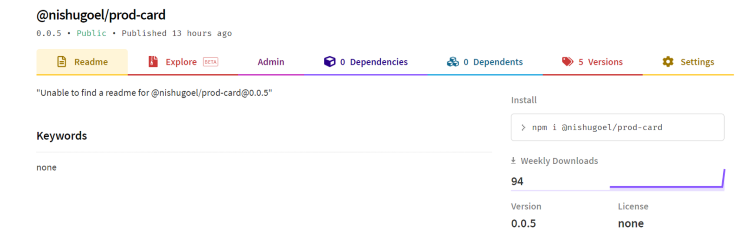
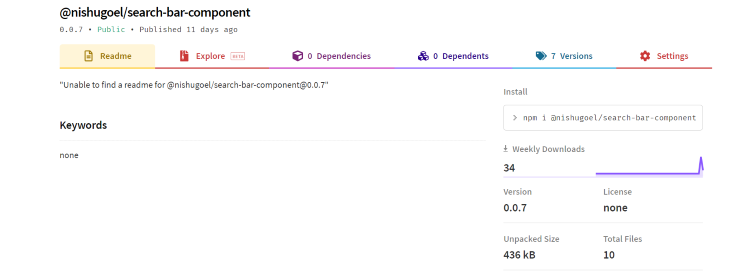
refine repos & snips

diff --git a/src/app/buildwith-elements/buildwith-elements.component.html b/src/app/buildwith-elements/buildwith-elements.component.html
@@ -7,7 +7,7 @@
         </h3>
         <div style="text-align: center; "><img src="../../assets/images/ngElementPackage.png"
                 alt="elementsDependency.png"></div> <br><br>
-        <div class="content-tag"><code class="icon-code-style">npm install --save @webcomponents/webcomponentsjs</code>
+        <div class="content-tag"><code class="icon-code-style">npm install --save @webcomponents/custom-elements</code>
         </div>
         <pre style="background: darkgray; padding: 6px;"><code style=" color: black;">import ‘@webcomponents/custom-elements/src/native-shim’;
 import ‘@webcomponents/custom-elements/custom-elements.min’;</code></pre>
@@ -24,7 +24,7 @@ export class ComponentName {{'{'}}
     title = 'custom-elements-demo';
 {{'}'}}</code></pre>
         <p>The selector name will be the one used while creating the web-component. Also, you would want to give it a
-            generic name as this web component is going to be a re-usable one which you’d definitely want to use in your
+            generic name as this web component is going to be a re-usable one which you'd definitely want to use in your
             other projects as well.
             The next step then is to create the custom Element inside the module of your app. To do this, we first need
             to declare it inside the entryComponents array inside NgModule.</p>
@@ -59,5 +59,7 @@ export class FeatureModule   {{'{'}}
             Angular component recognizes this custom Element, we add CUSTOM_ELEMENTS_SCHEMA in the schemas array in
             NgModule inside AppModule.</p>
         <p> You custom Element is now ready to be used and is accessible inside any of your Angular projects.</p>
+        <div style="text-align: center; "><img src="../../assets/images/ngWebComp.PNG"
+            alt="elementsDependency.png"></div>
     </div>
 </div>

diff --git a/src/app/use-in-framework/use-in-framework.component.html b/src/app/use-in-framework/use-in-framework.component.html
@@ -9,12 +9,12 @@
 
         <pre style="background: darkgray; padding: 6px;"><code style=" color: black;">//Inside index.html
     
-    &lt;script src="https://unpkg.com/@nishugoel/prod-card@0.0.5/main.js"&gt;&lt;/script&gt;
+    &lt;script src=https://unpkg.com/@nishugoel/search-bar-component@0.0.7/main.js"&gt;&lt;/script&gt;
         
 //Use the custom element in the App.js file  
         
-    &lt;prod-card username='Enter your name' password='Enter new password' 
-      btnname='Sign in'&gt;&lt;/prod-card&gt;
+    &lt;ng-search-bar textfield='Well, let us enter something from this react app 
+        now!'&gt;&lt;/ng-search-bar&gt;
 </code></pre>
         <h3>Install webcomponents.js
         </h3>
@@ -22,7 +22,7 @@
             style="background: darkgray; padding: 6px;"><code style=" color: black;">npm install --save @webcomponents/webcomponentsjs</code></pre>
         <p>Put the required polyfills for custom-elements-es5-adapter.js and webcomponents-bundle.js</p>
         <p>And finally use the custom element in your app.js file with your own property values to the component.</p>
-        <div style="text-align: center; "><img src="../../assets/images/usageinReact.png" alt="usageinReact.png">
+        <div style="text-align: center; "><img src="../../assets/images/reactUse.png" alt="usageinReact.png">
         </div>
         <h3 align="center">And there we go!
         </h3>

diff --git a/src/app/source-code/source-code.component.html b/src/app/source-code/source-code.component.html
@@ -1,0 +1,13 @@
+<div class="content-overview">
+    <div class="inner-style">
+        <h2 class="content-heading"><span class="style-scope ">10</span>. <span
+                class="style-scope google-codelab-step">Source Code</span></h2>
+                <h3>Repositories</h3>
+                <p>- Web component using Angular Elements</p>
+                <a href="https://github.com/NishuGoel/frameworkAgnostic-searchBar" target="_blank">https://github.com/NishuGoel/frameworkAgnostic-searchBar</a>
+
+                <p>- Using the custom element in React</p>
+                <a href="https://github.com/NishuGoel/useAngularElementinReact" target="_blank">https://github.com/NishuGoel/useAngularElementinReact</a>
+
+                <p>- Using the custom element in a vanilla JS project</p>
+                <a href="https://github.com/NishuGoel/useWebCompInVanillaJS" target="_blank">https://github.com/NishuGoel/useWebCompInVanillaJS</a>

diff --git a/src/app/source-code/source-code.component.scss b/src/app/source-code/source-code.component.scss
@@ -1,0 +1,37 @@
+.content-overview {
+    background: #fff;
+    border-radius: 4px;
+    box-shadow: 0 1px 2px 0 rgba(60, 64, 67, 0.3), 0 2px 6px 2px rgba(60, 64, 67, 0.15);
+    font-size: 14px;
+    font-family: "Roboto", sans-serif;
+    margin: 30px auto 32px;
+    max-width: 800px;
+  }
+  .inner-style {
+    padding: 24px;
+  }
+  .content-heading {
+    font-family: Google Sans, Arial, sans-serif;
+    font-size: 28px;
+    font-weight: 400;
+    line-height: 1em;
+    margin: 0 0 30px;
+  }
+  .icon-code-style {
+    background: darkgray;
+    padding: 6px;
+
+  }
+  .content-tag {
+    color: black;
+  }
+  .stuck-code-block {
+    background: #e6f4ea;
+    border-color: #137333;
+    color: #212124;
+    border-left: 4px solid;
+    border-radius: 4px;
+    margin: 2em 0;
+    padding: 0.5em 1em;
+  }
+  

diff --git a/src/app/app.component.html b/src/app/app.component.html
@@ -10,7 +10,7 @@
                         class="style-scope iron-icon"></path>
                 </g>
             </svg>
-            <h3 class="head-header"><b>Build a web component with Angular element</b></h3>
+            <h3 class="head-header"><b>Build a web component with Angular elements</b></h3>
         </header>
         <router-outlet></router-outlet>
     </div>
@@ -39,6 +39,7 @@
                 </div>
                 <div class="list-items" tabindex="0" routerLink="/publish">Publish to npm</div>
                 <div class="list-items" tabindex="0" routerLink="/usewebcomponent">Use in other frameworks</div>
+                <div class="list-items" tabindex="0" routerLink="/sourcecode">Source Code</div>
             </div>
 
         </ng-sidebar-container>

diff --git a/src/app/app.module.ts b/src/app/app.module.ts
@@ -14,6 +14,7 @@ import { AngularElementsComponent } from './angular-elements/angular-elements.co
 import { BuildwithElementsComponent } from './buildwith-elements/buildwith-elements.component';
 import { PublishComponent } from './publish/publish.component';
 import { UseInFrameworkComponent } from './use-in-framework/use-in-framework.component';
+import { SourceCodeComponent } from './source-code/source-code.component';
 
 @NgModule({
   declarations: [
@@ -27,7 +28,8 @@ import { UseInFrameworkComponent } from './use-in-framework/use-in-framework.com
     AngularElementsComponent,
     BuildwithElementsComponent,
     PublishComponent,
-    UseInFrameworkComponent
+    UseInFrameworkComponent,
+    SourceCodeComponent
   ],
   imports: [
     BrowserModule,

diff --git a/src/app/buildcustom-element/buildcustom-element.component.html b/src/app/buildcustom-element/buildcustom-element.component.html
@@ -57,8 +57,8 @@
             style="background: darkgray; padding: 6px;"><code style=" color: black;">npm i -g static-server</code></pre>
         <p> Open the app on the port specified, and there
             you go with own web component in a non-Angular project (where the web component was created.)</p>
-        <div style="text-align: center; padding-top: 12px; border: 5px solid grey;"><img
-                src="../../assets/images/loginformcomponent.png" alt="loginformcomponent.png"></div>
+        <div style="text-align: center; padding-top: 12px;"><img
+                src="../../assets/images/vanillaJS.PNG" alt="useInvanillaJSproj.png"></div>
         <p>The web component can now be published to npm and used in other frameworks as well.</p>
 
 

diff --git a/src/app/source-code/source-code.component.spec.ts b/src/app/source-code/source-code.component.spec.ts
@@ -1,0 +1,25 @@
+import { async, ComponentFixture, TestBed } from '@angular/core/testing';
+
+import { SourceCodeComponent } from './source-code.component';
+
+describe('SourceCodeComponent', () => {
+  let component: SourceCodeComponent;
+  let fixture: ComponentFixture<SourceCodeComponent>;
+
+  beforeEach(async(() => {
+    TestBed.configureTestingModule({
+      declarations: [ SourceCodeComponent ]
+    })
+    .compileComponents();
+  }));
+
+  beforeEach(() => {
+    fixture = TestBed.createComponent(SourceCodeComponent);
+    component = fixture.componentInstance;
+    fixture.detectChanges();
+  });
+
+  it('should create', () => {
+    expect(component).toBeTruthy();
+  });
+});

diff --git a/src/app/app-routing.module.ts b/src/app/app-routing.module.ts
@@ -9,6 +9,7 @@ import { BuildwithElementsComponent } from './buildwith-elements/buildwith-eleme
 import { PublishComponent } from './publish/publish.component';
 import { UseInFrameworkComponent } from './use-in-framework/use-in-framework.component';
 import { WebStandardsComponent } from './web-standards/web-standards.component';
+import { SourceCodeComponent } from './source-code/source-code.component';
 
 const routes: Routes = [
   {
@@ -47,6 +48,10 @@ const routes: Routes = [
   {
     path: 'usewebcomponent',
     component: UseInFrameworkComponent
+  },
+  {
+    path: 'sourcecode',
+    component: SourceCodeComponent
   },
   {
     path: '',

diff --git a/src/app/overview/overview.component.html b/src/app/overview/overview.component.html
@@ -6,7 +6,7 @@
             custom element, a toggle button. The finished element will look something like this:</p>
         <p> You will be able to use it simply like:</p>
         <pre class="icon-code-style"><code>
-            <span class="content-tag">&lt;my-toggle-element&gt;&lt;/my-toggle-element&gt;</span>
+            <span class="content-tag">&lt;ng-search-bar&gt;&lt;/ng-search-bar&gt;</span>
         </code></pre>
         <p> We will cover each topic like web component specifications, creating a custom element,
             Angular elements, and use those to create web components in Angular.</p>

diff --git a/src/app/publish/publish.component.html b/src/app/publish/publish.component.html
@@ -14,8 +14,8 @@
         <p>The package.json looks like:
         </p>
         <pre style="background: darkgray; padding: 6px;"><code style=" color: black;">{{'{'}}
-    "name" : "@nishugoel/prod-card",
-    "version": "0.0.5"
+    "name" : "@nishugoel/search-bar-component",
+    "version": "0.0.7"
 {{'}'}}
 </code></pre>
         <p>We can now cd into the built package and pack it into a package to be published to npm using npm pack . This

diff --git a/src/app/drawer/drawer.component.html b/src/app/drawer/drawer.component.html
@@ -40,6 +40,7 @@
             </li>
             <li class="list-items" tabindex="0" routerLink="/publish">Publish to npm</li>
             <li class="list-items" tabindex="0" routerLink="/usewebcomponent">Use in other frameworks</li>
+            <li class="list-items" tabindex="0" routerLink="/sourcecode">Source Code</li>
         </ul>
     </section>
 </section>
